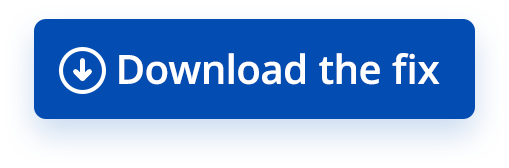
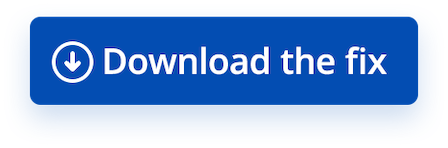
Nicer images

Changed region(s): [[0.0938, 0.2432, 0.875, 0.5676], [0.6562, 0.2973, 0.6875, 0.3243], [0.4375, 0.2973, 0.4688, 0.3243]]

diff --git a/index.html b/index.html
@@ -18,7 +18,7 @@
 		
 <img class="logo" src="equinux-logo@2x.png" />
 
-		<div class="intro">Missing certificate? We made a fix</div>
+		<div class="intro">Missing certificate?<br>We made a fix</div>
 		<div class="explainer"><p>Older OS X and iOS versions don't have the latest security certificates, which means lots of websites and services won't load correctly.</p>
 			
 			<p>We've put together a configuration profile that fixes this problem.</p></div>
@@ -29,7 +29,9 @@
 
 <div class="download">
 	<p style="font-weight:600;">When we're not fixing weird certificate issues, we build apps like</p>
-	<a href="http://www.vpntracker.com/goto/certfixmlink"><img class="get" src="30+VPNTracker365_logo_title.png"/><img class="download" src="button-getvpnt@2x.png"/></a>
+	<a href="http://www.vpntracker.com/goto/certfixmlink">
+		<img   class="download" src="30+VPNTracker365_logo_title.png"/><br>
+		<img  class="download" src="button-getvpnt@2x.png"/></a>
 <p>The #1 VPN client for macOS with support for IPSec, L2TP, OpenVPN, PPTP, SSTP, Fortinet SSL, SonicWALL SSL as well as AnyConnect SSL VPN.</p><p>If you're a Mac professional and use a VPN for work, <a href="https://www.vpntracker.com">get VPN Tracker 365</a>.</p>
 	</div>
 			

diff --git a/css/styles.css b/css/styles.css
@@ -22,30 +22,12 @@ html {
 	}
 }
 
-.logo   {
-	width: 30%;
-	max-width: 200px; 
-	height:auto;
+
+img {
 	
+max-width: 180px;
+height: auto;
 }
-
-.download img {
-	height:auto;
-	clear: both;
-}
-
-
-.download img {
-	height:auto;
-	clear: both;
-}
-
-.get img {
-	height:50%;
-	width: auto;
-	clear: both;
-}
-
 .download p {
 	
 }
@@ -95,15 +77,4 @@ h3 {
 a {
 	text-decoration: none;
 	color: #1F4CAC;
-}
-
-.devto {
-	margin-bottom: -0.20rem;
-}
-
-.devto svg {
-	margin-bottom: -0.20rem;
-	margin-left: 0.675rem;;
-	width: 2.65rem;
-	height: 2.65rem;
 }
